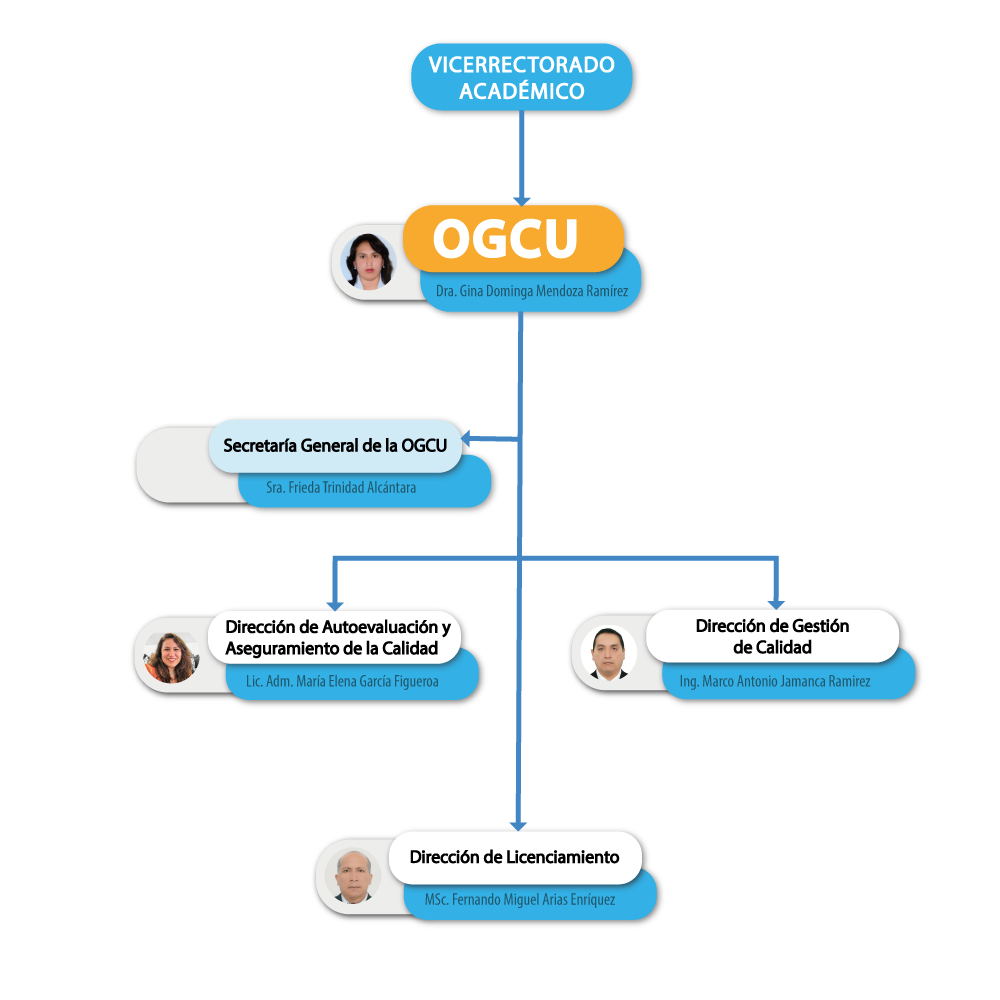
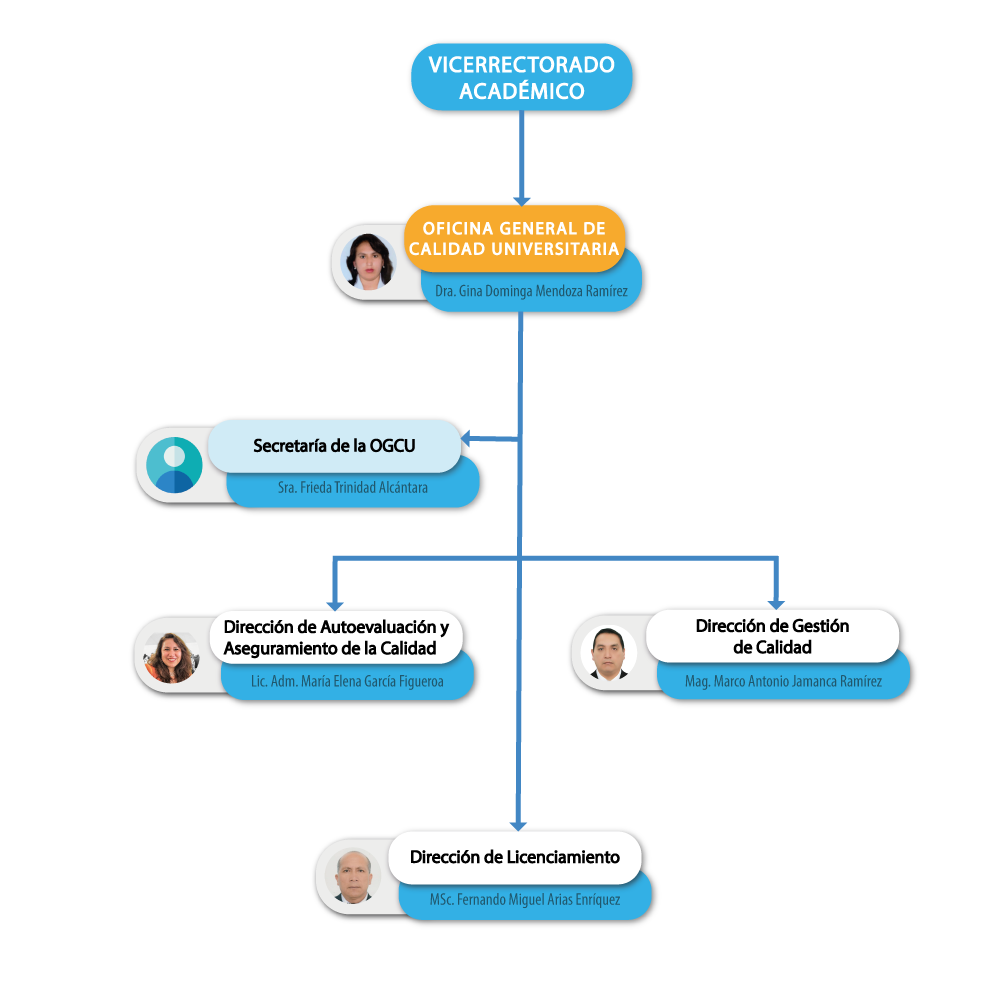
cambio3

diff --git a/autoridades.html b/autoridades.html
@@ -53,12 +53,11 @@
 				<li class="dropdown-item"><a href="direccion3.html" class="">Dirección de Licenciamiento</a></li>
 			</ul>
 		  </li> 
-        <!--<li class="nav-item"><a href="blog.html" class="nav-link">Blog</a></li>-->
 			  <li class="nav-item"><a href="portal.html" class="nav-link">Portales</a></li>
 			  <li class="nav-item"><a href="event.html" class="nav-link">Eventos y noticias</a></li>
 			  <li class="nav-item"><a href="documentos.html" class="nav-link">Documentos</a></li>
 			  <li class="nav-item"><a href="contact.html" class="nav-link">Contacto y Sugerencias</a></li>
-			  <!--<li class="nav-item cta"><a href="contact.html" class="nav-link"><span>Apply Now!</span></a></li>-->
+
 			</ul>
 		  </div>
 		</div>
@@ -91,18 +90,15 @@
 					<div class="d-flex mb-4">
 						<div class="img" style="background-image: url(images/Dra.Gina.jpeg);"></div>
 						<div class="info ml-4">
-							<h3><a href="teacher-single.html">Dra. Gina Dominga Mendoza Ramírez</a></h3>
+							<h3><a href="presentacion.html">Dra. Gina Dominga Mendoza Ramírez</a></h3>
 							<span class="position">Jefe (a) de la Oficina General de Calidad Universitaria</span>
 							<p class="ftco-social d-flex">
 						<a target="_black" href="https://www.facebook.com/OGCU.UNASAM" class="d-flex justify-content-center align-items-center"><span class="icon-facebook"></span></a>
-						<a href="#" class="d-flex justify-content-center align-items-center"><span class="icon-twitter"></span></a>
+<!-- 						<a href="#" class="d-flex justify-content-center align-items-center"><span class="icon-twitter"></span></a> -->
 					  </p>
 						</div>
 					</div>
-				<!--	<div class="text">
-						<p>Ingeniera de Sistemas e informatica, con estudios de maestría en Sistemas Integrados de Gestión de Calidad ...</p>
-					</div>
-				-->
+
 				</div>
         	</div>
 
@@ -111,18 +107,16 @@
 					<div class="d-flex mb-4">
 						<div class="img" style="background-image: url(images/Mg.Marco.jpeg);"></div>
 						<div class="info ml-4">
-							<h3><a href="teacher-single.html">Mag. Marco Antonio Jamanca Ramírez</a></h3>
+							<h3><a href="direccion2.html">Mag. Marco Antonio Jamanca Ramírez</a></h3>
 							<span class="position">Director (a) de la Dirección de Gestión de Calidad</span>
 							<p class="ftco-social d-flex">
 		
 						<a target="_black" href="https://www.facebook.com/OGCU.UNASAM" class="d-flex justify-content-center align-items-center"><span class="icon-facebook"></span></a>
-						<a href="#" class="d-flex justify-content-center align-items-center"><span class="icon-twitter"></span></a></p>
+<!-- 						<a href="#" class="d-flex justify-content-center align-items-center"><span class="icon-twitter"></span></a> -->
+					</p>
 						</div>
 					</div>
-				<!--	<div class="text">
-						<p>Ingeniero de Sistemas e informatica, con estudios de maestría en Sistemas Integrados de Gestión de Calidad ...</p>
-					</div>
-				-->
+
 				</div>
         	</div>
 
@@ -131,19 +125,16 @@
 					<div class="d-flex mb-4">
 						<div class="img" style="background-image: url(images/Lic.Maria.jpg);"></div>
 						<div class="info ml-4">
-							<h3><a href="teacher-single.html">Lic.Adm. María Elena García Figueroa</a></h3>
+							<h3><a href="direccion1.html">Lic.Adm. María Elena García Figueroa</a></h3>
 							<span class="position">Directora (a) de la Dirección de Autoevaluación y Aseguramiento de la Calidad</span>
 							<p class="ftco-social d-flex">
 
 						<a target="_black" href="https://www.facebook.com/OGCU.UNASAM" class="d-flex justify-content-center align-items-center"><span class="icon-facebook"></span></a>
-						<a href="#" class="d-flex justify-content-center align-items-center"><span class="icon-twitter"></span></a>
+<!-- 						<a href="#" class="d-flex justify-content-center align-items-center"><span class="icon-twitter"></span></a> -->
 					  </p>
 						</div>
 					</div>
-					<!--<div class="text">
-						<p>Ingeniera de Sistemas e informatica, con estudios de maestría en Sistemas Integrados de Gestión de Calidad ...</p>
-					</div>
-					-->
+
 				</div>
         	</div>
 
@@ -152,17 +143,15 @@
 					<div class="d-flex mb-4">
 						<div class="img" style="background-image: url(images/MSc.Fernando.jpg);"></div>
 						<div class="info ml-4">
-							<h3><a href="teacher-single.html">MSc. Fernando Miguel Arias Enríquez</a></h3>
+							<h3><a href="direccion3.html">MSc. Fernando Miguel Arias Enríquez</a></h3>
 							<span class="position">Director (a) de la Dirección de Licenciamiento</span>
 							<p class="ftco-social d-flex">
 						<a target="_black" href="https://www.facebook.com/OGCU.UNASAM"  class="d-flex justify-content-center align-items-center"><span class="icon-facebook"></span></a>
-						<a href="#" class="d-flex justify-content-center align-items-center"><span class="icon-twitter"></span></a></p>
+<!-- 						<a href="#" class="d-flex justify-content-center align-items-center"><span class="icon-twitter"></span></a> -->
+					</p>
 						</div>
 					</div>
-					<!--<div class="text">
-						<p>Ingeniero de Sistemas e informatica, con estudios de maestría en Sistemas Integrados de Gestión de Calidad ...</p>
-					</div>
-				-->
+
 				</div>
         	</div>
         	<div class="col-lg-6 mb-sm-4 ftco-animate">
@@ -170,18 +159,14 @@
 					<div class="d-flex mb-4">
 						<div class="img" style="background-image: url(images/usuario.png);"></div>
 						<div class="info ml-4">
-							<h3><a href="teacher-single.html">Sra. Frieda Trinidad Alcántara</a></h3>
-							<span class="position">Personal Administrativo, Secretaria</span>
+							<h3><a href="presentacion.html">Sra. Frieda Trinidad Alcántara</a></h3>
+							<span class="position">Secretaria</span>
 							<p class="ftco-social d-flex">
 						<a target="_black" href="https://www.facebook.com/OGCU.UNASAM"  class="d-flex justify-content-center align-items-center"><span class="icon-facebook"></span></a>
-						<a href="#" class="d-flex justify-content-center align-items-center"><span class="icon-twitter"></span></a>
+<!-- 						<a href="#" class="d-flex justify-content-center align-items-center"><span class="icon-twitter"></span></a> -->
 					  </p>
 						</div>
 					</div>
-					<!--<div class="text">
-						<p>Economista, con estudios de maestría en Sistemas Integrados de Gestión de Calidad universitaria ...</p>
-					</div>
-					-->
 				</div>
         	</div>
         </div>

diff --git a/index.html b/index.html
@@ -386,71 +386,6 @@
       </div>
     </section>
  
-<section class="ftco-section testimony-section">
-    <div class="container">
-      
-      <div class="row justify-content-center mb-5 pb-3">
-        <div class="col-md-7 heading-section ftco-animate text-center">
-          <h2 class="mb-4">COMPROMETIDOS</h2>
-          <p>Comprometidos con la educacion de calidad universitaria</p>
-        </div>
-      </div>
-
-      <div class="row">
-        <div class="col-md-12 ftco-animate">
-          <div class="carousel-testimony owl-carousel">
-
-            <div class="item0">
-              <div class="testimony-wrap text-center">
-                <div class="user-img mb-5" style="background-image: url(images/Dra.Gina.jpeg)">
-                  <span class="quote d-flex align-items-center justify-content-center">
-                    <i class="icon-quote-left"></i>
-                  </span>
-                </div>
-                <div class="text">
-                  <p class="mb-5">Supervisar las investigaciones garantizan la calidad unviersitaria para el desarrollo de la sociedad... </p>
-                  <p class="name">Dra. Gina Dominga Mendoza Ramírez</p>
-                  <span class="position">Jefe de la Oficina General de Calidad Universitaria</span>
-                </div>
-              </div>
-            </div>
-
-            <div class="item0">
-              <div class="testimony-wrap text-center">
-                <div class="user-img mb-5" style="background-image: url(images/Lic.Maria.jpg)">
-                  <span class="quote d-flex align-items-center justify-content-center">
-                    <i class="icon-quote-left"></i>
-                  </span>
-                </div>
-                <div class="text">
-                  <p class="mb-5">Evaluar las investigaciones garantizan la calidad unviersitaria para el desarrollo de la sociedad... </p>
-                  <p class="name">Lic.Adm. María Elena García Figueroa</p>
-                  <span class="position">Director(a) de la Dirección de Autoevaluación...</span>
-                </div>
-              </div>
-            </div>
-
-
-            <div class="item0">
-              <div class="testimony-wrap text-center">
-                <div class="user-img mb-5" style="background-image: url(images/Mg.Marco.jpeg)">
-                  <span class="quote d-flex align-items-center justify-content-center">
-                    <i class="icon-quote-left"></i>
-                  </span>
-                </div>
-                <div class="text">
-                  <p class="mb-5">Dirigir las investigaciones garantizan la calidad unviersitaria para el desarrollo de la sociedad... </p>
-                  <p class="name">Ing. Marco Antonio Jamanca Ramirez</p>
-                  <span class="position">Director de la Dirección de Gestión de la ...</span>
-                </div>
-              </div>
-            </div>         
-            </div>
-        </div>      
-    </div>
-</div>
-</section>
-
     <footer class="ftco-footer ftco-bg-dark ftco-section img" style="background-image: url(images/Unasam-campus.jpg); background-attachment:fixed;">
     	<div class="overlay"></div>
       <div class="container">

diff --git a/presentacion.html b/presentacion.html
@@ -82,7 +82,7 @@
     	<div class="container">
     		<div class="row d-flex">
     			<div class="col-md-6 d-flex ftco-animate">
-    				<div class="img img-about align-self-stretch" style="background-image: url(images/bg_3.jpg); width: 100%;"></div>
+    				<div class="img img-about align-self-stretch" style="background-image: url(images/OGCU-principal.png); width: 100%;"></div>
     			</div>
     			<div class="col-md-6 pl-md-5 ftco-animate text-justify">
     				<h2 class="mb-4">Oficina General de Calidad Universitaria - OGCU</h2>
@@ -163,19 +163,23 @@
 
     <section class="ftco-section">
     	<div class="container">
-            <div class="row justify-content-center mb-5 pb-3">
-                <div class="col-md-12 heading-section ftco-animate text-center">
-                  <br><br><h2 class="mb-4">ORGANIGRAMA OGCU</h2>
-                </div>
-              </div>
+        <div class="col-md-12 heading-section ftco-animate text-center">
+          <h2 class="mb-4">ORGANIGRAMA</h2>
+          <br><br>
+        </div>
+    		<div class="row">
 
-    	  <div class="row">
-          <h2><a class="navbar-brand" href="index.html"><img src="./images/Organigrama--OGCU.png" style="min-height: 1100px;max-height: 10px;" class="navbar-brand-img" alt="..."></a></h2>
-          </div>
+    			<div class="col-md-12 ftco-animate">
+    				<div class="course align-self-stretch">
+    					<a href="#" class="img" style="background-image: url(images/Organigrama--OGCU.png) ;width: 10%; "></a>
+    				</div>
+    			</div>
+    		</div>
+
     	</div>
     </section>
  
-    <footer class="ftco-footer ftco-bg-dark ftco-section img" style="background-image: url(images/Unasam-campus.jpg); background-attachment:fixed;">
+    <footer class="ftco-footer ftco-bg-dark ftco-section img" style="background-image: url(images/Unasam-campus.jpg) ; background-attachment:fixed; ">
     	<div class="overlay"></div>
       <div class="container">
         <div class="row mb-5">

diff --git a/contact.html b/contact.html
@@ -126,7 +126,7 @@
           </div>
 
           <div class="col-md-6"> 
-            <iframe src="https://www.google.com/maps/embed?pb=!1m18!1m12!1m3!1d3934.8560528762623!2d-77.53092518255616!3d-9.5212334!2m3!1f0!2f0!3f0!3m2!1i1024!2i768!4f13.1!3m3!1m2!1s0x91a90d12eb234bf1%3A0xc860f66d7ad8abd9!2sUNIVERSIDAD%20NACIONAL%20SANTIAGO%20ANT%C3%9ANEZ%20DE%20MAYOLO!5e0!3m2!1ses-419!2spe!4v1646984174332!5m2!1ses-419!2spe" width="600" height="500" style="border:0;" allowfullscreen="" loading="lazy"></iframe>
+            <iframe src="https://www.google.com/maps/embed?pb=!1m18!1m12!1m3!1d3934.8560528762623!2d-77.53092518255616!3d-9.5212334!2m3!1f0!2f0!3f0!3m2!1i1024!2i768!4f13.1!3m3!1m2!1s0x91a90d12eb234bf1%3A0xc860f66d7ad8abd9!2sUNIVERSIDAD%20NACIONAL%20SANTIAGO%20ANT%C3%9ANEZ%20DE%20MAYOLO!5e0!3m2!1ses-419!2spe!4v1646984174332!5m2!1ses-419!2spe" width="520" height="500" style="border:0;" allowfullscreen="" loading="lazy"></iframe>
           </div> 
           
            </div>
@@ -183,14 +183,12 @@
           </div>
   
           <div class="col-md-6"> 
-            <iframe src="images/course-1.jpg" width="600" height="450" style="border:0;" allowfullscreen="" loading="lazy"></iframe>
+            <iframe src="images/course-1.jpg" width="520" height="800" style="border:0;" allowfullscreen="" loading="lazy"></iframe>
           </div> 
+
            </div>
-    
-             
         </div>
-      
-      
+        
     </section>
 
 <footer class="ftco-footer ftco-bg-dark ftco-section img" style="background-image: url(images/Unasam-campus.jpg); background-attachment:fixed;">
@@ -246,6 +244,7 @@
           </div>
         </div>
       </div>
+
     </div>
 
     <div class="row">
